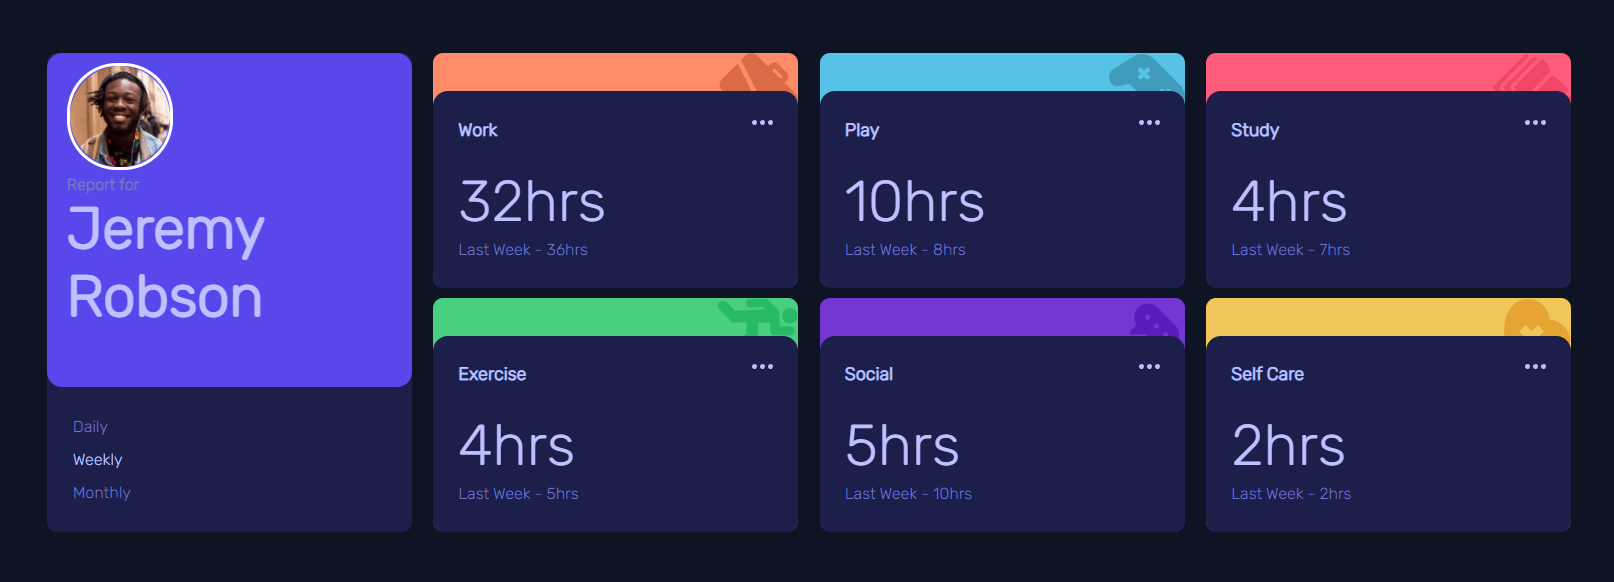
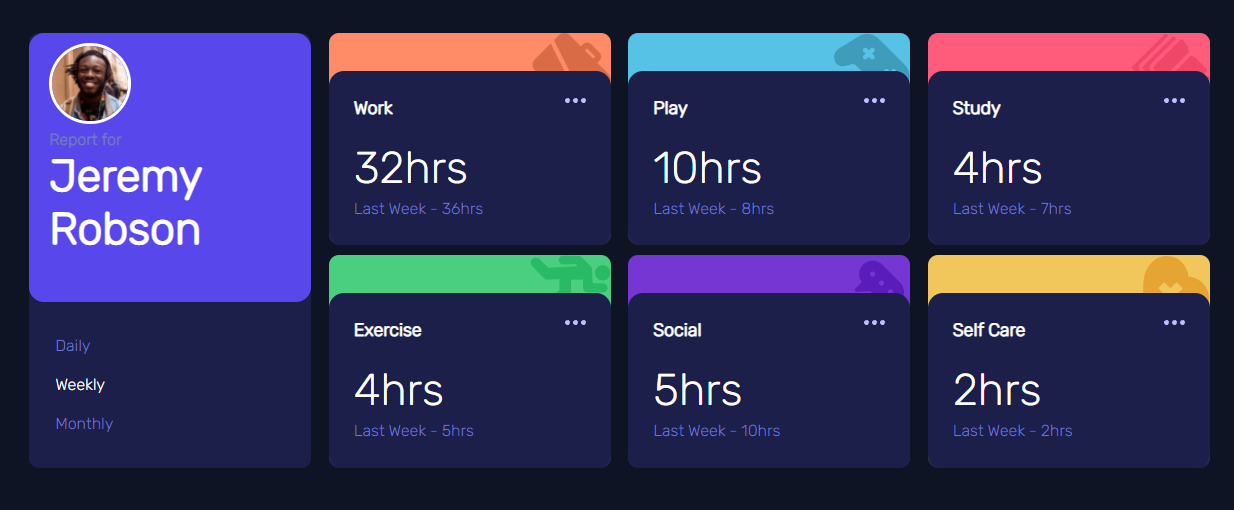
Update white color type and final image

diff --git a/styles.css b/styles.css
@@ -54,12 +54,12 @@ main {
 h2 {
   margin-bottom: 0;
   font-size: 1.125rem;
-  color: var(--Neutral-Pale-Blue);
+  color: white;
 }
 
 .hours {
   font-size: 1.125rem;
-  color: var(--Neutral-Pale-Blue);
+  color: white;
 }
 
 p {
@@ -136,7 +136,7 @@ p {
 }
 
 .name__bottom--style {
-  color: var(--Neutral-Pale-Blue);
+  color: white;
   margin-top: 0;
   font-size: 1.125rem;
 }
@@ -163,7 +163,7 @@ p {
 }
 
 .time--highlight {
-  color: var(--Neutral-Pale-Blue);
+  color: white;
   cursor: pointer;
 }
 .work {
